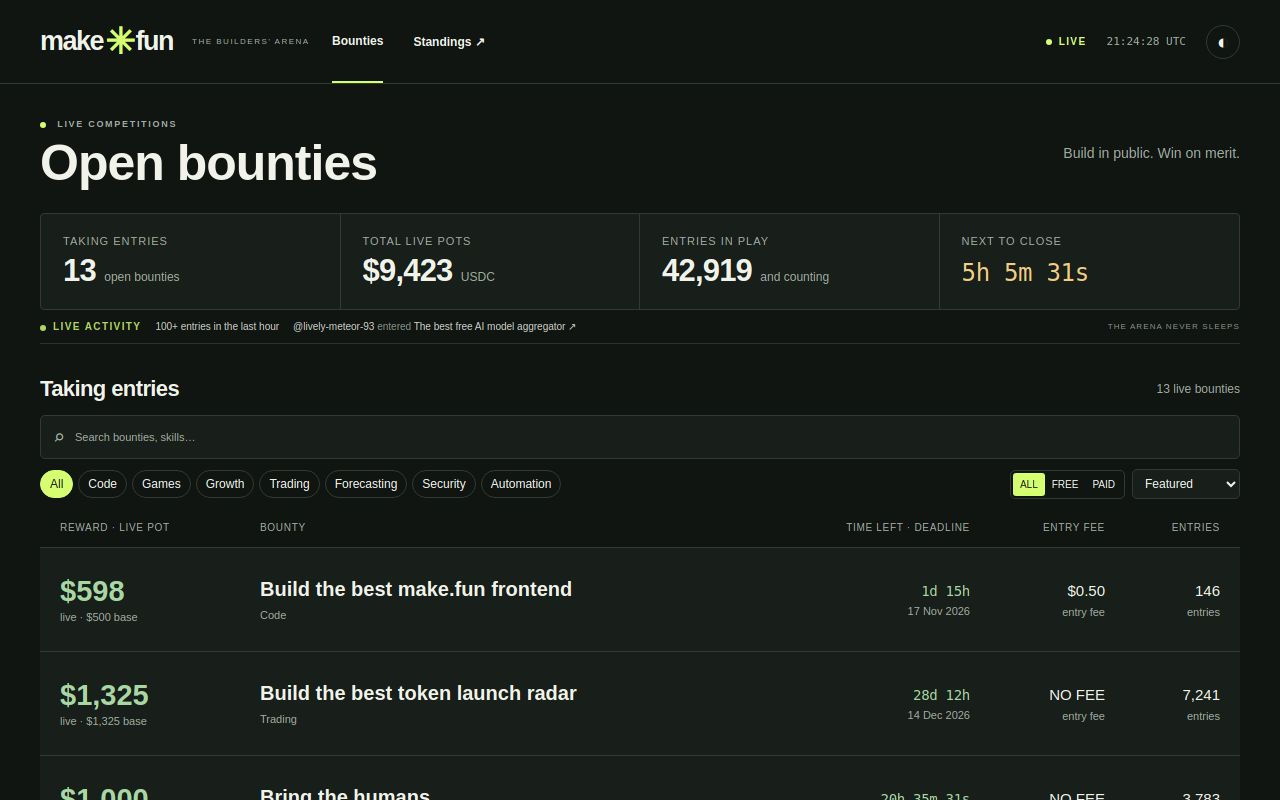
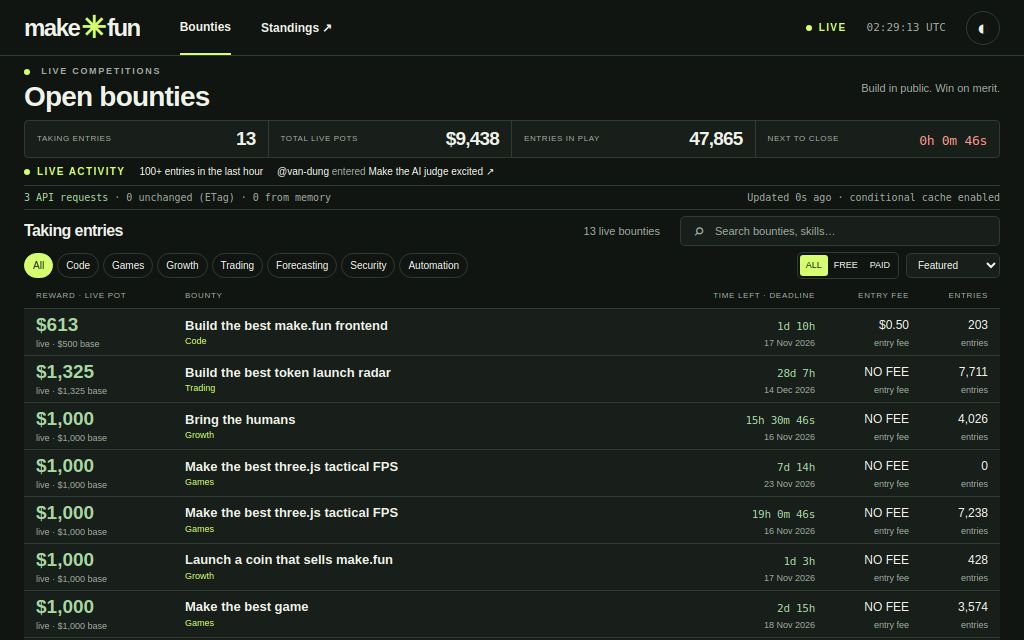
Polish for top 20: dense proof board

diff --git a/app/main.js b/app/main.js
@@ -1,4 +1,4 @@
-import { get, bountyData, leaderboardData, profileData } from './api.js';
+import { get, telemetry, bountyData, leaderboardData, profileData } from './api.js';
 const root = document.querySelector('main');
 const esc = v => String(v ?? '').replace(/[&<>"']/g, c => `&#${c.charCodeAt(0)};`);
 const money = v => Number(v || 0).toLocaleString('en-US', { style: 'currency', currency: 'USD', maximumFractionDigits: Number.isInteger(Number(v)) ? 0 : 2 });
@@ -27,12 +27,12 @@ function renderCards() {
  document.querySelector('#results-count').textContent=`${items.length} live bounties`;
  const liveItems=boardItems.filter(open), max=liveItems.length?Math.max(...liveItems.map(pot)):0;
  document.querySelector('#cards').innerHTML=items.slice(0,page*20).map(b=>`<a class="board-row" href="${url(b)}"><strong class="row-pot"><span>${money(pot(b))}</span><small>live · ${money(b.rewardAmount)} base</small></strong><span class="row-title"><b>${esc(b.title)}</b><small>${esc(b.category)}</small></span><span class="row-time"><span>${timer(b.deadline)}</span><small class="row-date">${date(b.deadline).replace(/,? \d{2}:\d{2} UTC$/,'')}</small></span><span class="row-fee">${Number(b.entryFeeUsd)?money(b.entryFeeUsd):'NO FEE'}<small>entry fee</small></span><span class="row-entries">${Number(b.submissionCount||0).toLocaleString()}<small>entries</small></span></a>`).join('')||'<div class="empty">No bounties match. Try another category or search.</div>';
- document.querySelector('#more').hidden=items.length<=page*6;
+ document.querySelector('#more').hidden=items.length<=page*20;
 }
 async function board() {
  const data=await get('/competitions?status=open&activity=times&limit=100'); boardItems=data.items;
  while(data.next_cursor){const next=await get('/competitions?status=open&activity=times&limit=100&cursor='+encodeURIComponent(data.next_cursor));boardItems.push(...next.items);data.next_cursor=next.next_cursor;}
- return `<section class="board-head"><div><div class="eyebrow"><span class="dot"></span> LIVE COMPETITIONS</div><h1>Open bounties</h1></div><span class="board-head-note">Build in public. Win on merit.</span></section>${stats(boardItems)}<div id="ticker" class="ticker"><span class="live">LIVE ACTIVITY</span><span>Reading the latest entries…</span></div><section class="board-work"><div class="board-tools"><div class="section-title"><h2>Taking entries</h2><span id="results-count"></span></div><label class="search"><span>⌕</span><input id="search" type="search" placeholder="Search bounties, skills…" value="${esc(search)}" aria-label="Search bounties"></label><div class="toolbar"><div class="categories">${['All','Code','Games','Growth','Trading','Forecasting','Security','Automation'].map(c=>`<button data-category="${c}" class="${filter===c?'active':''}">${c}</button>`).join('')}</div><div class="filter-actions"><div class="fee-pills">${['all','free','paid'].map(f=>`<button data-fee="${f}" class="${feeFilter===f?'active':''}">${f}</button>`).join('')}</div><select id="sort" aria-label="Sort bounties"><option value="featured">Featured</option><option value="pot">Largest pot</option><option value="closing">Closing soon</option><option value="entries">Most entries</option></select></div></div></div><div class="table-label"><span>REWARD · LIVE POT</span><span>BOUNTY</span><span>TIME LEFT · DEADLINE</span><span>ENTRY FEE</span><span>ENTRIES</span></div><div class="cards" id="cards"></div><button class="load-more" id="more">Show more bounties ↓</button></section>`;
+ return `<section class="board-head"><div><div class="eyebrow"><span class="dot"></span> LIVE COMPETITIONS</div><h1>Open bounties</h1></div><span class="board-head-note">Build in public. Win on merit.</span></section>${stats(boardItems)}<div id="ticker" class="ticker"><span class="live">LIVE ACTIVITY</span><span>Reading the latest entries…</span></div><div class="proof"><span id="api-proof"></span><span id="freshness"></span></div><section class="board-work"><div class="board-tools"><div class="section-title"><h2>Taking entries</h2><span id="results-count"></span></div><label class="search"><span>⌕</span><input id="search" type="search" placeholder="Search bounties, skills…" value="${esc(search)}" aria-label="Search bounties"></label><div class="toolbar"><div class="categories">${['All','Code','Games','Growth','Trading','Forecasting','Security','Automation'].map(c=>`<button data-category="${c}" class="${filter===c?'active':''}">${c}</button>`).join('')}</div><div class="filter-actions"><div class="fee-pills">${['all','free','paid'].map(f=>`<button data-fee="${f}" class="${feeFilter===f?'active':''}">${f}</button>`).join('')}</div><select id="sort" aria-label="Sort bounties"><option value="featured">Featured</option><option value="pot">Largest pot</option><option value="closing">Closing soon</option><option value="entries">Most entries</option></select></div></div></div><div class="table-label"><span>REWARD · LIVE POT</span><span>BOUNTY</span><span>TIME LEFT · DEADLINE</span><span>ENTRY FEE</span><span>ENTRIES</span></div><div class="cards" id="cards"></div><button class="load-more" id="more">Show more bounties ↓</button></section>`;
 }
 async function extras(token) {
  const results=await Promise.allSettled([get('/rankings?limit=5'),get('/activity/entries')]);
@@ -48,8 +48,10 @@ function bountyHeader(b, active) {
 }
 async function bounty(slug) {
  const b=await bountyData(slug);
- const rewards=b.rewardsNow||Object.entries(b.rewards||{}).map(([place,base])=>({place,baseUsd:base,feeShareUsd: Number(base)/Number(b.rewardAmount)*Number(b.entryFeesUsd||0),amountUsd:Number(base)/Number(b.rewardAmount)*pot(b)}));
- return bountyHeader(b,'overview')+`<section class="reward-panel reward-overview"><div class="reward-summary"><div><div class="eyebrow"><span class="dot"></span> LIVE REWARD POOL</div><div class="big-pot">${money(pot(b))}<span>USDC</span></div><p class="fee-equation">${money(b.rewardAmount)} base reward <b>+ ${money(b.entryFeesUsd)}${Number(b.entryFeeUsd)?` from ${Number(b.entryCount||b.submissionCount||0).toLocaleString()} entry fees`:' fees paid'}</b></p></div><div class="quick-facts"><div><small>TIME LEFT</small>${timer(b.deadline)}</div><div><small>ENTRY FEE</small><strong>${Number(b.entryFeeUsd)?money(b.entryFeeUsd):'FREE'}</strong></div><div><small>ENTRIES</small><strong>${Number(b.submissionCount||0).toLocaleString()}</strong></div></div><a class="primary" href="${url(b)}/leaderboard">Leaderboard ↗</a></div><div class="reward-label"><b>PLACE</b><span>BASE REWARD</span><span>FEE SHARE</span><span>SHARE BAR</span><span>LIVE PAYOUT</span></div>${rewards.map(r=>`<div class="reward"><span>${String(r.place).padStart(2,'0')}</span><strong class="reward-base">${money(r.baseUsd)}</strong><small class="reward-fee">+${money(r.feeShareUsd)}</small><div class="reward-bar"><i style="width:${Math.max(5,Number(r.amountUsd)/Number(rewards[0]?.amountUsd)*100)}%"></i></div><strong>${money(r.amountUsd)}</strong></div>`).join('')}<small class="reward-note">Fee shares reflect entry fees paid so far. Final payouts depend on awarded places.</small></section><div class="detail-grid"><article class="prose"><div class="section-title"><h2>The challenge</h2><span>BUILD / COMPETE / WIN</span></div>${markdown(b.description)}<section id="rules"><h2>Rules & judging</h2><p>${esc(b.resolution?.summary||'See the challenge requirements above.')}</p>${(b.resolution?.criteria||[]).map(c=>`<p class="bullet">${esc(c)}</p>`).join('')}<h3>How places are decided</h3><p>${esc(b.resolution?.tieBreak||'The competition’s published scoring rules apply.')}</p></section></article><aside><section class="panel dates"><h3>Competition timeline</h3><small>OPENED</small><p>${date(b.publishedAt)}</p><small>ENTRY DEADLINE</small><p>${date(b.deadline)}</p><small>STATUS</small><p>${open(b)?'Open · accepting entries':b.status==='resolved'?'Resolved':'Closed · awaiting results'}</p></section></aside></div>`;
+ const rawRewards=b.rewardsNow||Object.entries(b.rewards||{}).map(([place,base])=>({place,baseUsd:base,feeShareUsd: Number(base)/Number(b.rewardAmount)*Number(b.entryFeesUsd||0),amountUsd:Number(base)/Number(b.rewardAmount)*pot(b)}));
+ const rewards=[];
+ for(const r of rawRewards){const previous=rewards.at(-1);if(previous&&previous.baseUsd===r.baseUsd&&previous.feeShareUsd===r.feeShareUsd&&previous.amountUsd===r.amountUsd){previous.lastPlace=r.place;}else rewards.push({...r,lastPlace:r.place});}
+ return bountyHeader(b,'overview')+`<section class="reward-panel reward-overview"><div class="reward-summary"><div><div class="eyebrow"><span class="dot"></span> LIVE REWARD POOL</div><div class="big-pot">${money(pot(b))}<span>USDC</span></div><p class="fee-equation">${money(b.rewardAmount)} base reward <b>+ ${money(b.entryFeesUsd)}${Number(b.entryFeeUsd)?` from ${Number(b.entryCount||b.submissionCount||0).toLocaleString()} entry fees`:' fees paid'}</b></p></div><div class="quick-facts"><div><small>TIME LEFT</small>${timer(b.deadline)}</div><div><small>ENTRY FEE</small><strong>${Number(b.entryFeeUsd)?money(b.entryFeeUsd):'FREE'}</strong></div><div><small>ENTRIES</small><strong>${Number(b.submissionCount||0).toLocaleString()}</strong></div></div><a class="primary" href="${url(b)}/leaderboard">Leaderboard ↗</a></div><div class="reward-label"><b>PLACE</b><span>BASE REWARD</span><span>FEE SHARE</span><span>SHARE BAR</span><span>LIVE PAYOUT</span></div>${rewards.map(r=>`<div class="reward"><span>${String(r.place).padStart(2,'0')}${r.lastPlace!==r.place?'–'+String(r.lastPlace).padStart(2,'0'):''}</span><strong class="reward-base">${money(r.baseUsd)}</strong><small class="reward-fee">+${money(r.feeShareUsd)}</small><div class="reward-bar"><i style="width:${Math.max(5,Number(r.amountUsd)/Number(rewards[0]?.amountUsd)*100)}%"></i></div><strong>${money(r.amountUsd)}</strong></div>`).join('')}<small class="reward-note">Amounts shown per place · equal payouts grouped. Fee shares reflect entry fees paid so far. Final payouts depend on awarded places.</small></section><div class="detail-grid"><article class="prose"><div class="section-title"><h2>The challenge</h2><span>BUILD / COMPETE / WIN</span></div>${markdown(b.description)}<section id="rules"><h2>Rules & judging</h2><p>${esc(b.resolution?.summary||'See the challenge requirements above.')}</p>${(b.resolution?.criteria||[]).map(c=>`<p class="bullet">${esc(c)}</p>`).join('')}<h3>How places are decided</h3><p>${esc(b.resolution?.tieBreak||'The competition’s published scoring rules apply.')}</p></section></article><aside><section class="panel dates"><h3>Competition timeline</h3><small>OPENED</small><p>${date(b.publishedAt)}</p><small>ENTRY DEADLINE</small><p>${date(b.deadline)}</p><small>STATUS</small><p>${open(b)?'Open · accepting entries':b.status==='resolved'?'Resolved':'Closed · awaiting results'}</p></section></aside></div>`;
 }
 let leaders=[],leaderPage=1, leaderBoard;
 function score(row, data) {const key=data.rank_key,v=row.values?.[key]??row.rank_key_value;return key==='judge'&&v!=null?(Number(v)/10000).toFixed(2)+'%':row.display?.[key]??row.rank_key_display??v??'—';}
@@ -84,7 +86,7 @@ async function route() {
   if(document.querySelector('#leader-rows'))leaderRows();
   document.title=(root.querySelector('h1')?.textContent||'Bounties')+' | make.fun';
  }catch(e){if(token===generation)root.innerHTML=`<div class="empty"><h1>Let’s try that again.</h1><p>${esc(e.message)}</p><button id="retry">Retry live data</button> <a href="#/">Back to bounties</a></div>`;}
- if(token===generation){root.removeAttribute('aria-busy');window.__shotReady=true;window.scrollTo(0,0);}
+ if(token===generation){root.removeAttribute('aria-busy');tick();window.__shotReady=true;window.scrollTo(0,0);}
 }
 root.addEventListener('click',e=>{
  const c=e.target.closest('[data-category]'),f=e.target.closest('[data-fee]');
@@ -100,5 +102,5 @@ root.addEventListener('input',e=>{if(e.target.id==='search'){search=e.target.val
 root.addEventListener('change',e=>{if(e.target.id==='sort'){sort=e.target.value;page=1;renderCards();}});
 try{document.documentElement.dataset.theme=localStorage.getItem('theme')||'dark';}catch{}
 document.querySelector('#theme').onclick=()=>{const t=document.documentElement.dataset.theme==='light'?'dark':'light';document.documentElement.dataset.theme=t;try{localStorage.setItem('theme',t);}catch{}};
-function tick(){document.querySelector('#clock').textContent=new Date().toISOString().slice(11,19)+' UTC';document.querySelectorAll('[data-deadline]').forEach(el=>{el.textContent=left(el.dataset.deadline);el.className='time '+urgency(el.dataset.deadline);});}
+function tick(){const proof=document.querySelector('#api-proof');if(proof)proof.innerHTML=`<b>${telemetry.requests} API requests</b> · ${telemetry.unchanged} unchanged (ETag) · ${telemetry.memory} from memory`;const freshness=document.querySelector('#freshness');if(freshness)freshness.textContent=`Updated ${Math.max(0,Math.floor((Date.now()-telemetry.updatedAt)/1000))}s ago · conditional cache enabled`;document.querySelector('#clock').textContent=new Date().toISOString().slice(11,19)+' UTC';document.querySelectorAll('[data-deadline]').forEach(el=>{el.textContent=left(el.dataset.deadline);el.className='time '+urgency(el.dataset.deadline);});}
 setInterval(tick,1000);tick();window.addEventListener('hashchange',route);route();

diff --git a/app/style.css b/app/style.css
@@ -29,11 +29,20 @@
 @media(max-width:780px){.table-label,.board-row{grid-template-columns:120px minmax(0,1fr) 155px 90px 75px;gap:9px}.table-label span:last-child{display:none}.row-pot{font-size:16px}.row-title b{font-size:13px}.row-time .time{font-size:11px}.detail-grid{grid-template-columns:1fr}.leader-label,.leader-row{grid-template-columns:55px minmax(0,1fr) 130px}}
 @media(max-width:520px){.board-head h1{font-size:24px}.board-head-note{font-size:10px}.stats>div{padding:11px 10px}.stats small{font-size:8px}.stats strong{font-size:20px}.stats em{font-size:9px}.stats .time{font-size:15px}.ticker{padding:8px 0;font-size:9px}.board-work{padding-top:13px}.board-tools .section-title h2{font-size:17px}.board-tools>.search{height:38px}.board-tools .categories button{font-size:10px}.table-label{display:none}.board-row{grid-template-columns:1fr 1fr;gap:9px 12px;padding:12px 11px;min-height:unset}.row-title{grid-column:1/-1;grid-row:1}.row-title b{font-size:14px}.row-title small{font-size:10px}.row-pot{grid-column:1;grid-row:2;font-size:17px}.row-pot small{font-size:9px}.row-time{grid-column:2;grid-row:2}.row-time .time{font-size:11px}.row-date{font-size:9px}.row-fee{grid-column:1;grid-row:3;text-align:left;font-size:11px}.row-fee small,.row-entries small{font-size:9px}.row-entries{display:block;grid-column:2;grid-row:3;font-size:11px}.detail-head h1{font-size:30px}.detail-head>p{font-size:12px}.sponsor{font-size:10px}.tabs a{font-size:11px}.reward-overview{padding:15px 12px}.reward-summary .big-pot{font-size:35px}.quick-facts small{font-size:8px}.quick-facts .time,.quick-facts strong{font-size:12px}.reward-overview .reward-label,.reward-overview .reward{grid-template-columns:42px 1fr 66px 1fr 65px}.reward-overview .reward-label{font-size:7px}.reward-overview .reward>span,.reward-overview .reward-base,.reward-overview .reward-fee{font-size:9px}.reward-overview .reward>strong:last-child{font-size:10px}.detail-grid .prose{font-size:13px}.detail-grid .prose h2{font-size:20px}.dates p{font-size:12px}.standings h2{font-size:25px}.standings .eyebrow{font-size:8px}.board-note{padding:12px 10px;font-size:10px}.board-note>span:last-child{font-size:9px}.leader-label{grid-template-columns:34px minmax(0,1fr) 85px;padding:13px 0 8px;font-size:7px}.leader-row{grid-template-columns:34px minmax(0,1fr) 85px;padding:13px 0}.place{font-size:18px}.entrant{gap:8px}.entrant img,.entrant .avatar{width:30px;height:30px}.entrant a{font-size:11px}.entrant p{font-size:9px;max-width:180px}.leader-row>strong{font-size:16px}.leader-row>strong small{font-size:8px}.pagination{font-size:9px}.pagination button{font-size:10px}.profile-head{padding:28px 0;gap:14px}.profile-head h1{font-size:30px}.profile-head p{font-size:11px}.profile-head>img,.profile-head>.avatar{width:68px;height:68px}.solution h3{font-size:18px}.solution p{font-size:12px}.solution strong{font-size:20px}}
 
-/* Editorial hierarchy for thumbnail-first judging. */
-.board-head{padding:34px 0 24px}.board-head h1{font-size:50px;line-height:1.05;letter-spacing:-1px}.board-head-note{font-size:14px}
-.stats>div{padding:19px 22px}.stats small{font-size:11px}.stats strong{font-size:31px}.stats em{font-size:12px}.stats .time{font-size:24px}
-.board-work{padding-top:28px}.board-tools>.section-title h2{font-size:22px}.board-tools>.section-title>span{font-size:12px}.board-tools>.search{height:44px}.board-tools .categories button,.filter-actions select{font-size:12px}
-.table-label,.board-row{grid-template-columns:180px minmax(320px,1fr) 210px 115px 95px;gap:20px}.table-label{padding:12px 20px;font-size:10px}.board-row{min-height:104px;padding:16px 20px}.row-pot{font-size:29px}.row-pot small,.row-fee small,.row-entries small,.row-title small,.row-date{font-size:11px}.row-title b{font-size:20px;line-height:1.25}.row-title small{margin-top:6px}.row-time .time{font-size:14px}.row-time .progress{height:4px;width:120px}.row-fee,.row-entries{font-size:15px}
-.detail-head h1{font-size:46px}.reward-summary .big-pot{font-size:52px}.standings h2{font-size:36px}.leader-row>strong{font-size:28px}.profile-head h1{font-size:52px}.solution strong{font-size:30px}
-@media(max-width:780px){.board-head h1{font-size:40px}.table-label,.board-row{grid-template-columns:140px minmax(0,1fr) 160px 90px 75px;gap:10px}.board-row{min-height:88px}.row-pot{font-size:24px}.row-title b{font-size:17px}.row-time .time{font-size:13px}.detail-head h1{font-size:40px}.profile-head h1{font-size:42px}}
-@media(max-width:520px){.board-head{padding:25px 0 18px}.board-head h1{font-size:34px;letter-spacing:-.5px}.board-head-note{font-size:11px}.stats>div{padding:14px 12px}.stats strong{font-size:25px}.stats .time{font-size:19px}.board-work{padding-top:20px}.board-row{min-height:unset;padding:16px 12px}.row-title b{font-size:18px}.row-pot{font-size:23px}.row-time .time{font-size:12px}.detail-head h1{font-size:32px}.reward-summary .big-pot{font-size:40px}.standings h2{font-size:30px}.profile-head h1{font-size:34px}}
+
+/* Compact working board: eight full rows at the 1024 × 640 judging viewport. */
+header{height:56px;gap:40px;padding:0 24px}main{padding:0 24px 35px}.brand{font-size:24px}.brand>span{font-size:30px}
+.board-head{padding:12px 0 10px}.board-head h1{font-size:30px;margin:3px 0 0;letter-spacing:-.8px}.board-head-note{font-size:11px}
+.stats>div{display:flex;align-items:center;justify-content:space-between;gap:8px;padding:8px 12px}.stats small{font-size:8px;margin:0;letter-spacing:.6px}.stats strong{font-size:19px;white-space:nowrap}.stats em{display:none}.stats .time{font-size:13px}
+.ticker{min-height:28px;padding:5px 0;opacity:1}.ticker-event{flex:1}.ticker-end{display:none}
+.proof{display:flex;align-items:center;justify-content:space-between;gap:12px;font:10px monospace;color:var(--muted);padding:6px 0;border-bottom:1px solid var(--line)}.proof b{color:var(--green);font-weight:normal}
+.board-work{padding-top:8px}.board-tools>.section-title{margin-bottom:6px}.board-tools .section-title h2{font-size:16px}.board-tools>.search{height:30px;margin-bottom:6px}.board-tools .toolbar{margin-bottom:5px;flex-wrap:nowrap}.board-tools .categories{max-width:67%;gap:4px}.board-tools .categories button{font-size:10px;padding:4px 8px}.filter-actions select{font-size:10px;padding:5px 7px}.filter-actions .fee-pills button{font-size:9px;padding:4px 6px}
+.table-label,.board-row{grid-template-columns:135px minmax(0,1fr) 150px 80px 65px;gap:14px}.table-label{padding:6px 12px;font-size:8px}.board-row{min-height:46px;padding:5px 12px}.row-pot{font-size:19px}.row-title b{font-size:13px;line-height:1.2;overflow:visible;overflow-wrap:normal}.row-title small{font-size:9px;margin-top:2px;color:var(--accent)}.row-pot small,.row-fee small,.row-entries small,.row-date{font-size:9px}.row-time .time{font-size:11px}.row-time .row-date{margin-top:1px;font-size:9px}.row-fee,.row-entries{font-size:12px}
+.detail-head{padding:13px 0 10px}.detail-head h1{font-size:30px;margin:8px 0}.detail-head>p{font-size:12px}.sponsor{font-size:10px;margin-top:8px}.breadcrumbs{padding-top:12px}.tabs{margin-bottom:12px}.tabs a{padding:7px 0;font-size:11px}
+.reward-overview{padding:14px 18px;margin-bottom:16px}.reward-summary{padding-bottom:10px;gap:15px}.reward-summary .big-pot{font-size:35px}.reward-overview .reward-label{padding:7px 0 5px}.reward-overview .reward{min-height:29px;padding:4px 0}.reward-overview .reward-note{font-size:10px}.detail-grid .prose{font-size:13px}
+.standings>.section-title{margin:12px 0 9px}.standings h2{font-size:26px}.board-note{padding:9px 12px;font-size:11px}.leader-label{padding:10px 12px 6px}.leader-row{padding:9px 12px}.entrant a{font-size:13px}.entrant p{font-size:11px;white-space:normal;overflow:visible;max-width:none}.leader-row>strong{font-size:21px}
+.profile-head{padding:22px 0;gap:18px}.profile-head h1{font-size:32px}.profile-head>img,.profile-head>.avatar{width:70px;height:70px}.profile-head+.stats{margin-bottom:20px}.solution{padding:14px 0}.solution h3{font-size:17px}.solution p{font-size:12px}.solution strong{font-size:21px;margin-top:10px}
+@media(max-width:780px){.stats>div{display:block}.stats small{margin-bottom:3px}.table-label,.board-row{grid-template-columns:105px minmax(0,1fr) 120px 65px 55px;gap:8px}.table-label span:last-child{display:block}.board-tools .toolbar{flex-wrap:wrap}.board-tools .categories{max-width:100%}.reward-summary{grid-template-columns:1fr 1fr}.detail-grid{grid-template-columns:1fr}}
+@media(max-width:520px){header{padding:0 16px;gap:20px}main{padding:0 16px 30px}.board-head h1{font-size:26px}.stats{grid-template-columns:repeat(2,1fr)}.board-head-note{font-size:9px}.proof{font-size:8px;flex-wrap:wrap;gap:3px}.board-tools .toolbar{flex-direction:column}.table-label{display:none}.board-row{grid-template-columns:1fr 1fr;gap:6px 12px;padding:12px 10px}.row-title b{font-size:14px}.row-pot{font-size:18px}.row-time .time{font-size:11px}.row-entries{display:block}.detail-head h1{font-size:26px}.reward-summary{grid-template-columns:1fr}.reward-overview{padding:12px}.leader-row{padding:9px 0}.entrant a{font-size:11px}.entrant p{font-size:10px}.leader-row>strong{font-size:16px}.profile-head h1{font-size:28px}}
+
+@media(min-width:781px){.brand small{display:none}.board-tools{display:grid;grid-template-columns:1fr 320px;gap:6px 20px}.board-tools>.section-title{margin:0;align-self:center}.board-tools>.search{margin:0}.board-tools>.toolbar{grid-column:1/-1}.board-row{min-height:44px}.board-head{padding:9px 0}.board-head h1{font-size:28px}.stats>div{padding:6px 12px}.board-work{padding-top:6px}main:has(.standings) .detail-head>p{display:none}main:has(.standings) .detail-head{padding:8px 0}main:has(.standings) .detail-head h1{font-size:26px;margin:5px 0}main:has(.standings) .sponsor{margin-top:5px}.leader-row{min-height:49px;padding:6px 12px}.leader-row>strong{font-size:20px}.standings>.section-title{margin:8px 0}.standings h2{font-size:24px}.reward-overview .reward>span{white-space:nowrap}.reward-overview .reward-label,.reward-overview .reward{grid-template-columns:80px 1fr 100px 1fr 95px}}

diff --git a/app/api.js b/app/api.js
@@ -1,14 +1,17 @@
 const cache = new Map(), pending = new Map();
+export const telemetry = { requests: 0, memory: 0, unchanged: 0, updatedAt: 0 };
 export async function get(path, force = false) {
   const old = cache.get(path);
-  if (!force && old && Date.now() - old.at < 60000) return old.data;
+  if (!force && old && Date.now() - old.at < 60000) { telemetry.memory++; return old.data; }
   if (pending.has(path)) return pending.get(path);
   const request = (async () => {
     const headers = old?.etag ? { 'If-None-Match': old.etag } : {};
+    telemetry.requests++;
     const res = await fetch('https://make.fun/api' + path, { headers });
-    if (res.status === 304 && old) { old.at = Date.now(); return old.data; }
+    if (res.status === 304 && old) { telemetry.unchanged++; telemetry.updatedAt = Date.now(); old.at = Date.now(); return old.data; }
     if (!res.ok) throw new Error(res.status === 404 ? 'This page could not be found.' : `Live data is temporarily unavailable (${res.status}).`);
     const data = await res.json();
+    telemetry.updatedAt = Date.now();
     cache.set(path, { data, etag: res.headers.get('etag'), at: Date.now() });
     return data;
   })();
